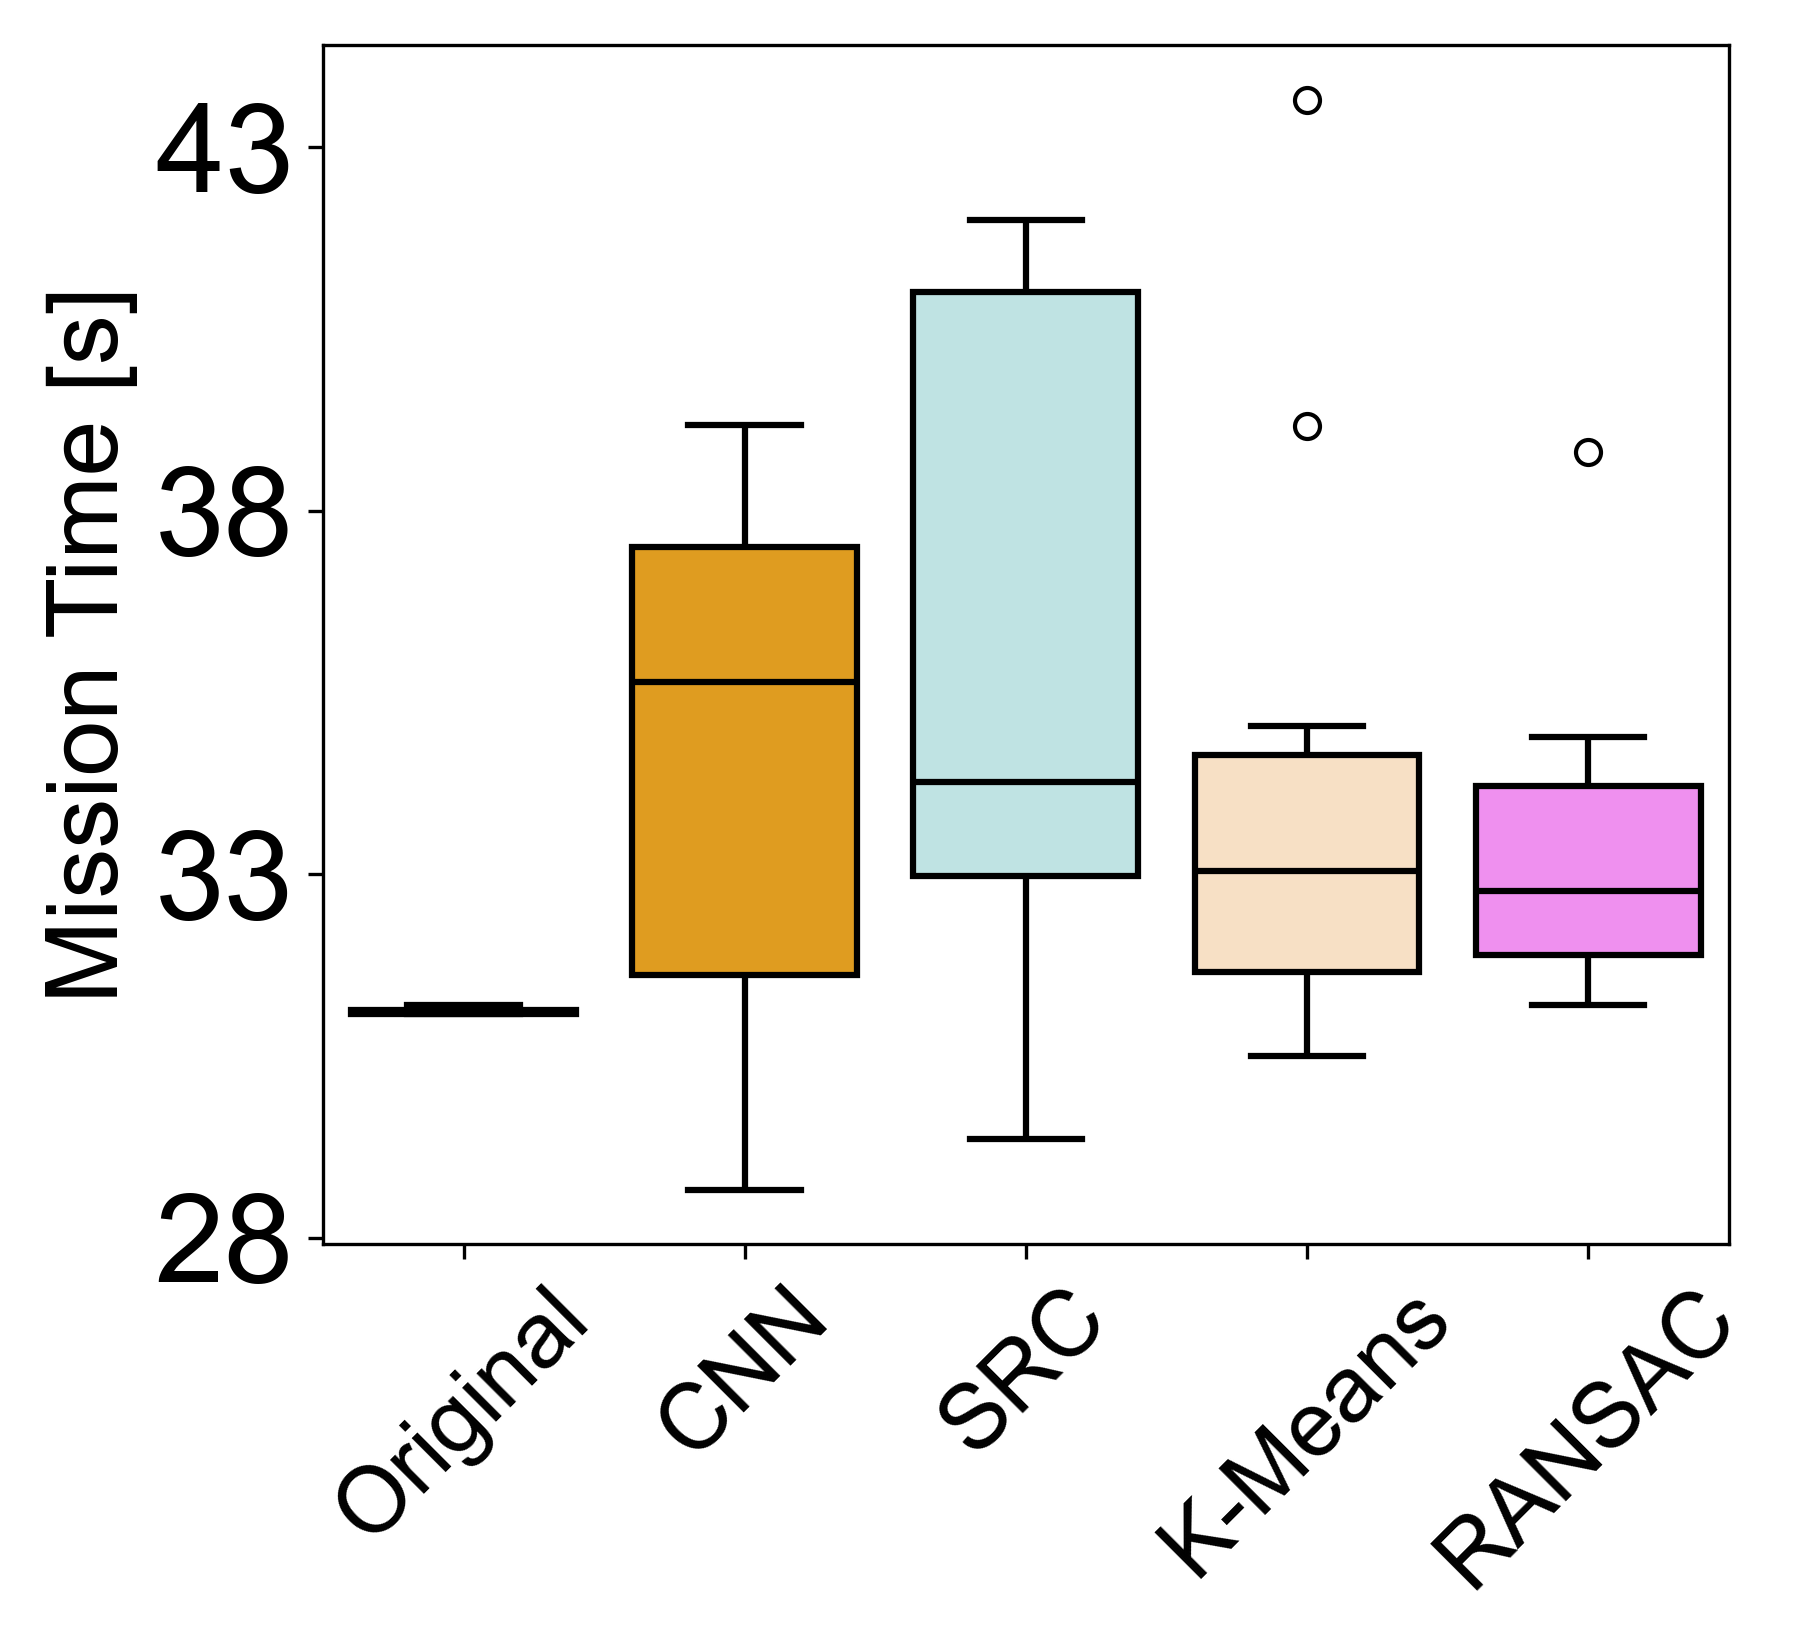
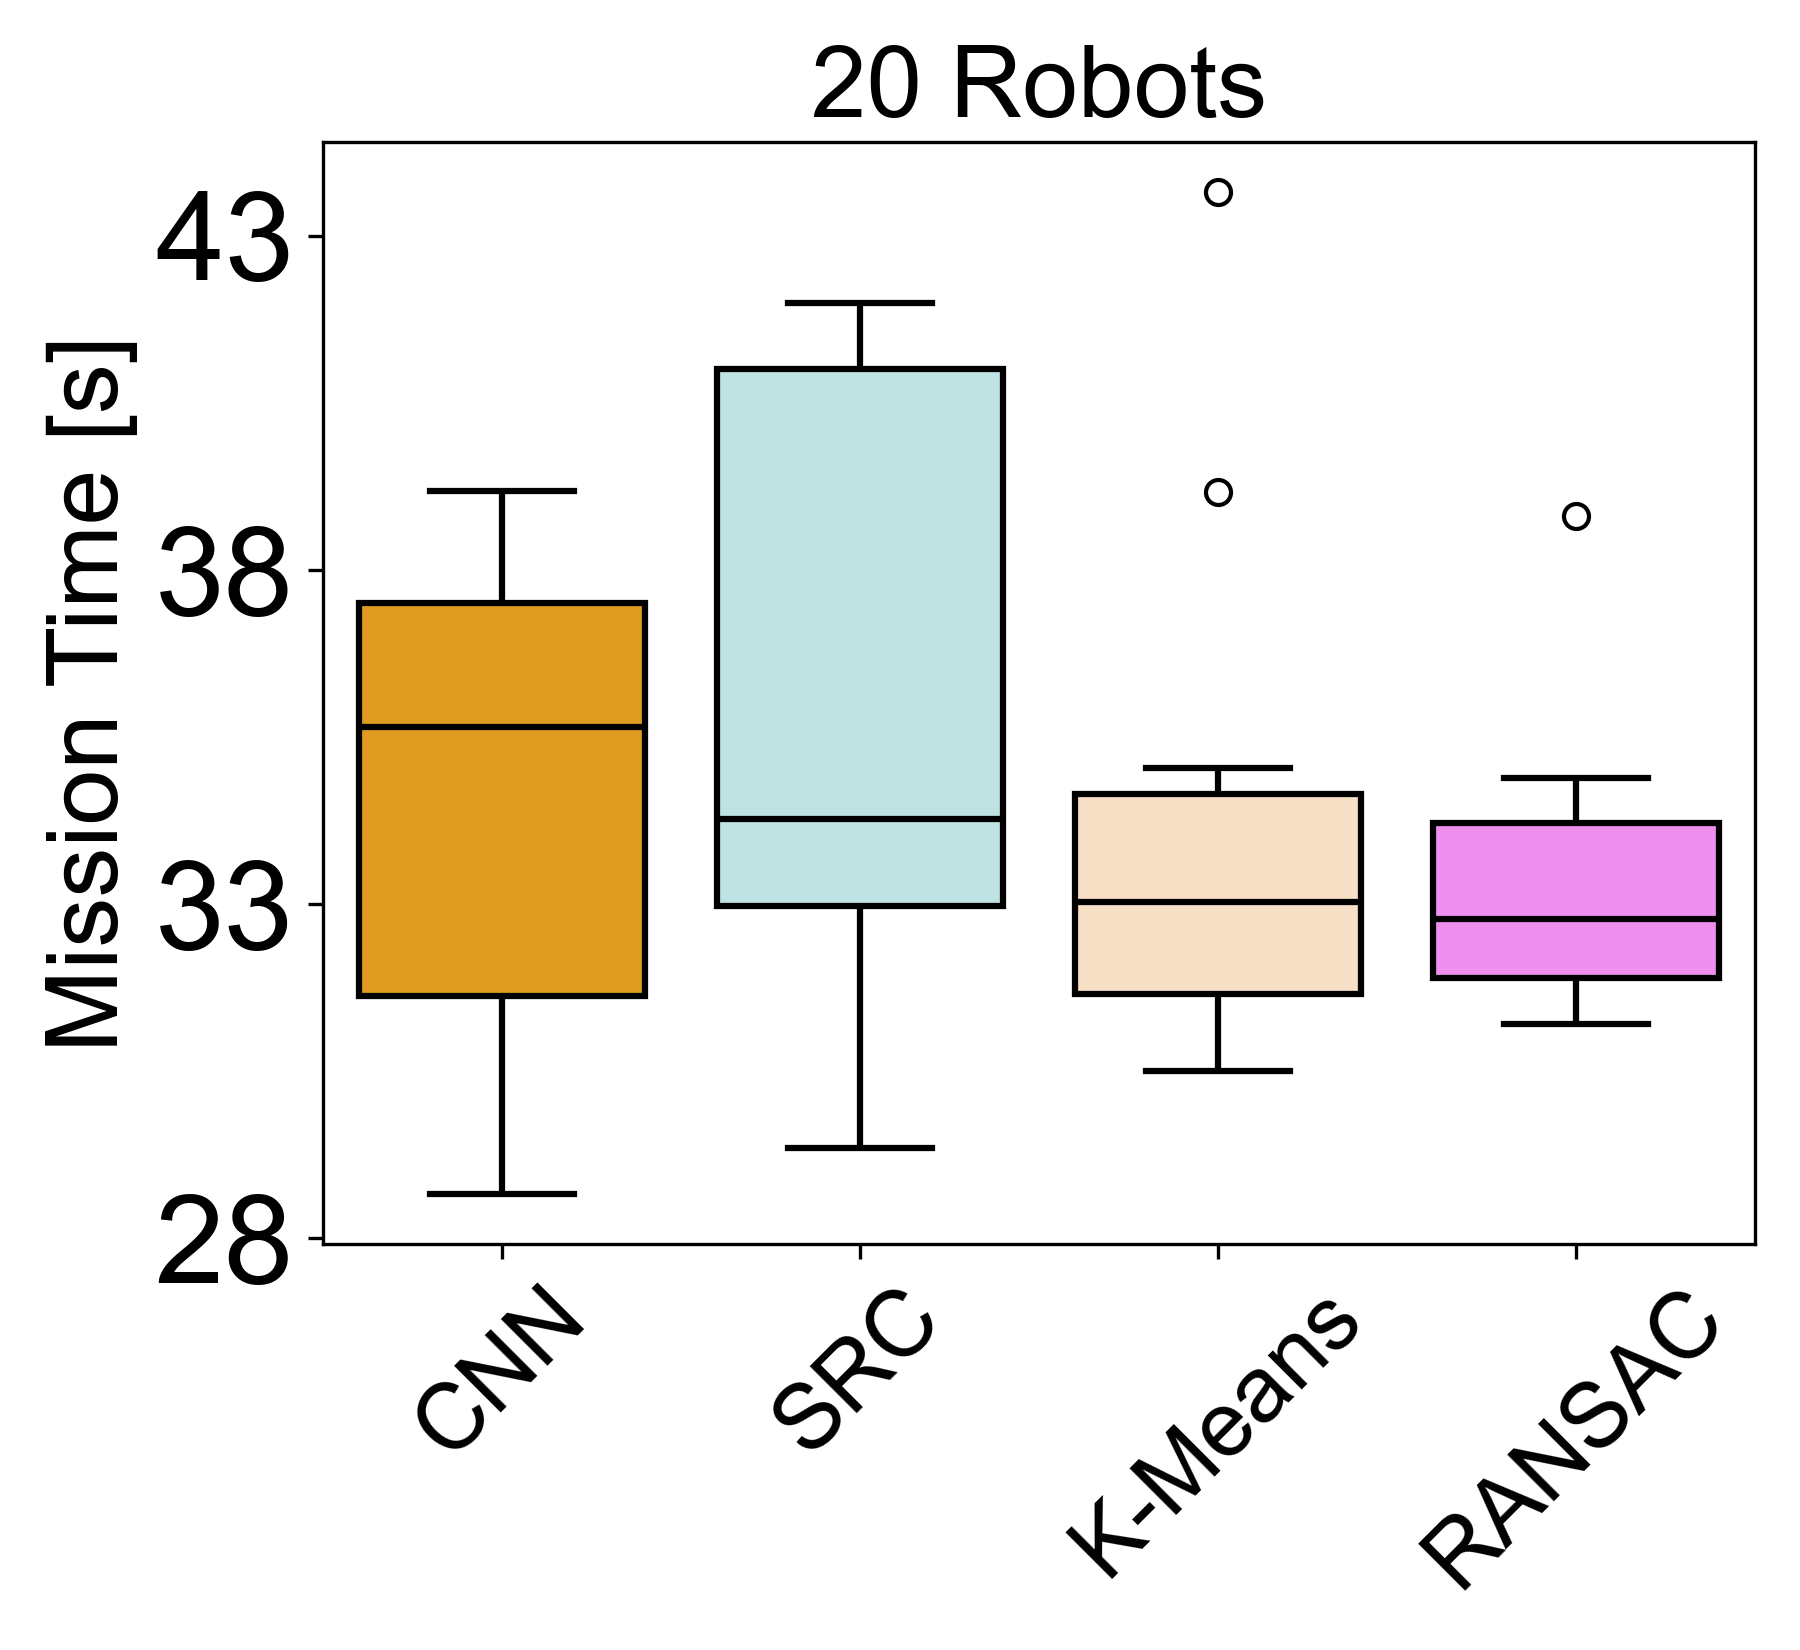
updated

diff --git a/RAL_results/plots_env1.py b/RAL_results/plots_env1.py
@@ -11,7 +11,7 @@ plt.rcParams["font.family"] = "Arial"
 
 # frequency 1
 # path = r'F:\\ADAMS_Lab\\RAL_results\\Env_1\\freq_5' # Windows_path
-path = "/data1/users/abhatt4/cnn_bayesswarm/CNN_BayesSwarm_RAL/RAL_results/Env_3/freq_5"
+path = "/data1/users/abhatt4/cnn_bayesswarm/CNN_BayesSwarm_RAL/RAL_results/Env_1/freq_1"
 
 # Windows Paths
 # folder_paths = [
@@ -32,15 +32,15 @@ folder_paths = [
 ]
 
 
-mission = '835.csv'
+mission = '820.csv'
 # Windows Paths
 # env_path = r"env1_results\\freq_5\\"
 # file_name = r"env1_50_robots_speed1.pdf"
 
 #Lab machine 
-env_path = "env3_results/freq_5/"#without_ransac/"#freq_5/"
-file_name = "env3_35_robots_speed1.png"
-
+env_path = "env1_results/"#freq_5/"#without_ransac/"#freq_5/"
+file_name = "env1_20_robots_speed1.png"
+title = "20 Robots"
 
 fig, axs = plt.subplots(figsize=(6, 5.5))
 
@@ -71,9 +71,9 @@ ax.set_xticks(ax.get_xticks())
 ax.set_xticklabels(["CNN", "SRC", "K-Means", "RANSAC"], fontsize=22, rotation=45)#, fontweight='bold')
 ax.set_xlabel("")
 # ax.set_yticks(np.arange(140, 250, 40)) # For Env-1 speed 0.2
-# ax.set_yticks(np.arange(28, 44, 5)) # For Env-1 speed 1
+ax.set_yticks(np.arange(28, 44, 5)) # For Env-1 speed 1
 # ax.set_yticks(np.arange(40, 65, 10)) # For Env-2
-ax.set_yticks(np.arange(50, 250, 50)) # For Env-3
+# ax.set_yticks(np.arange(50, 250, 50)) # For Env-3
 ax.set_ylabel("")
 ax.set_ylabel("Mission Time [s]", fontsize=24)#, fontweight='bold')
 
@@ -85,7 +85,7 @@ for tick in ax.yaxis.get_major_ticks():
     # tick.label1.set_fontproperties("monospace")
     # tick.label2.set_fontproperties("monospace")
     
-
+plt.title(title, fontsize=24)
 plt.tight_layout()
 # Windows path
 # save_image_path = r"F:\\ADAMS_Lab\\RAL_results\\results_plots\\" + env_path
